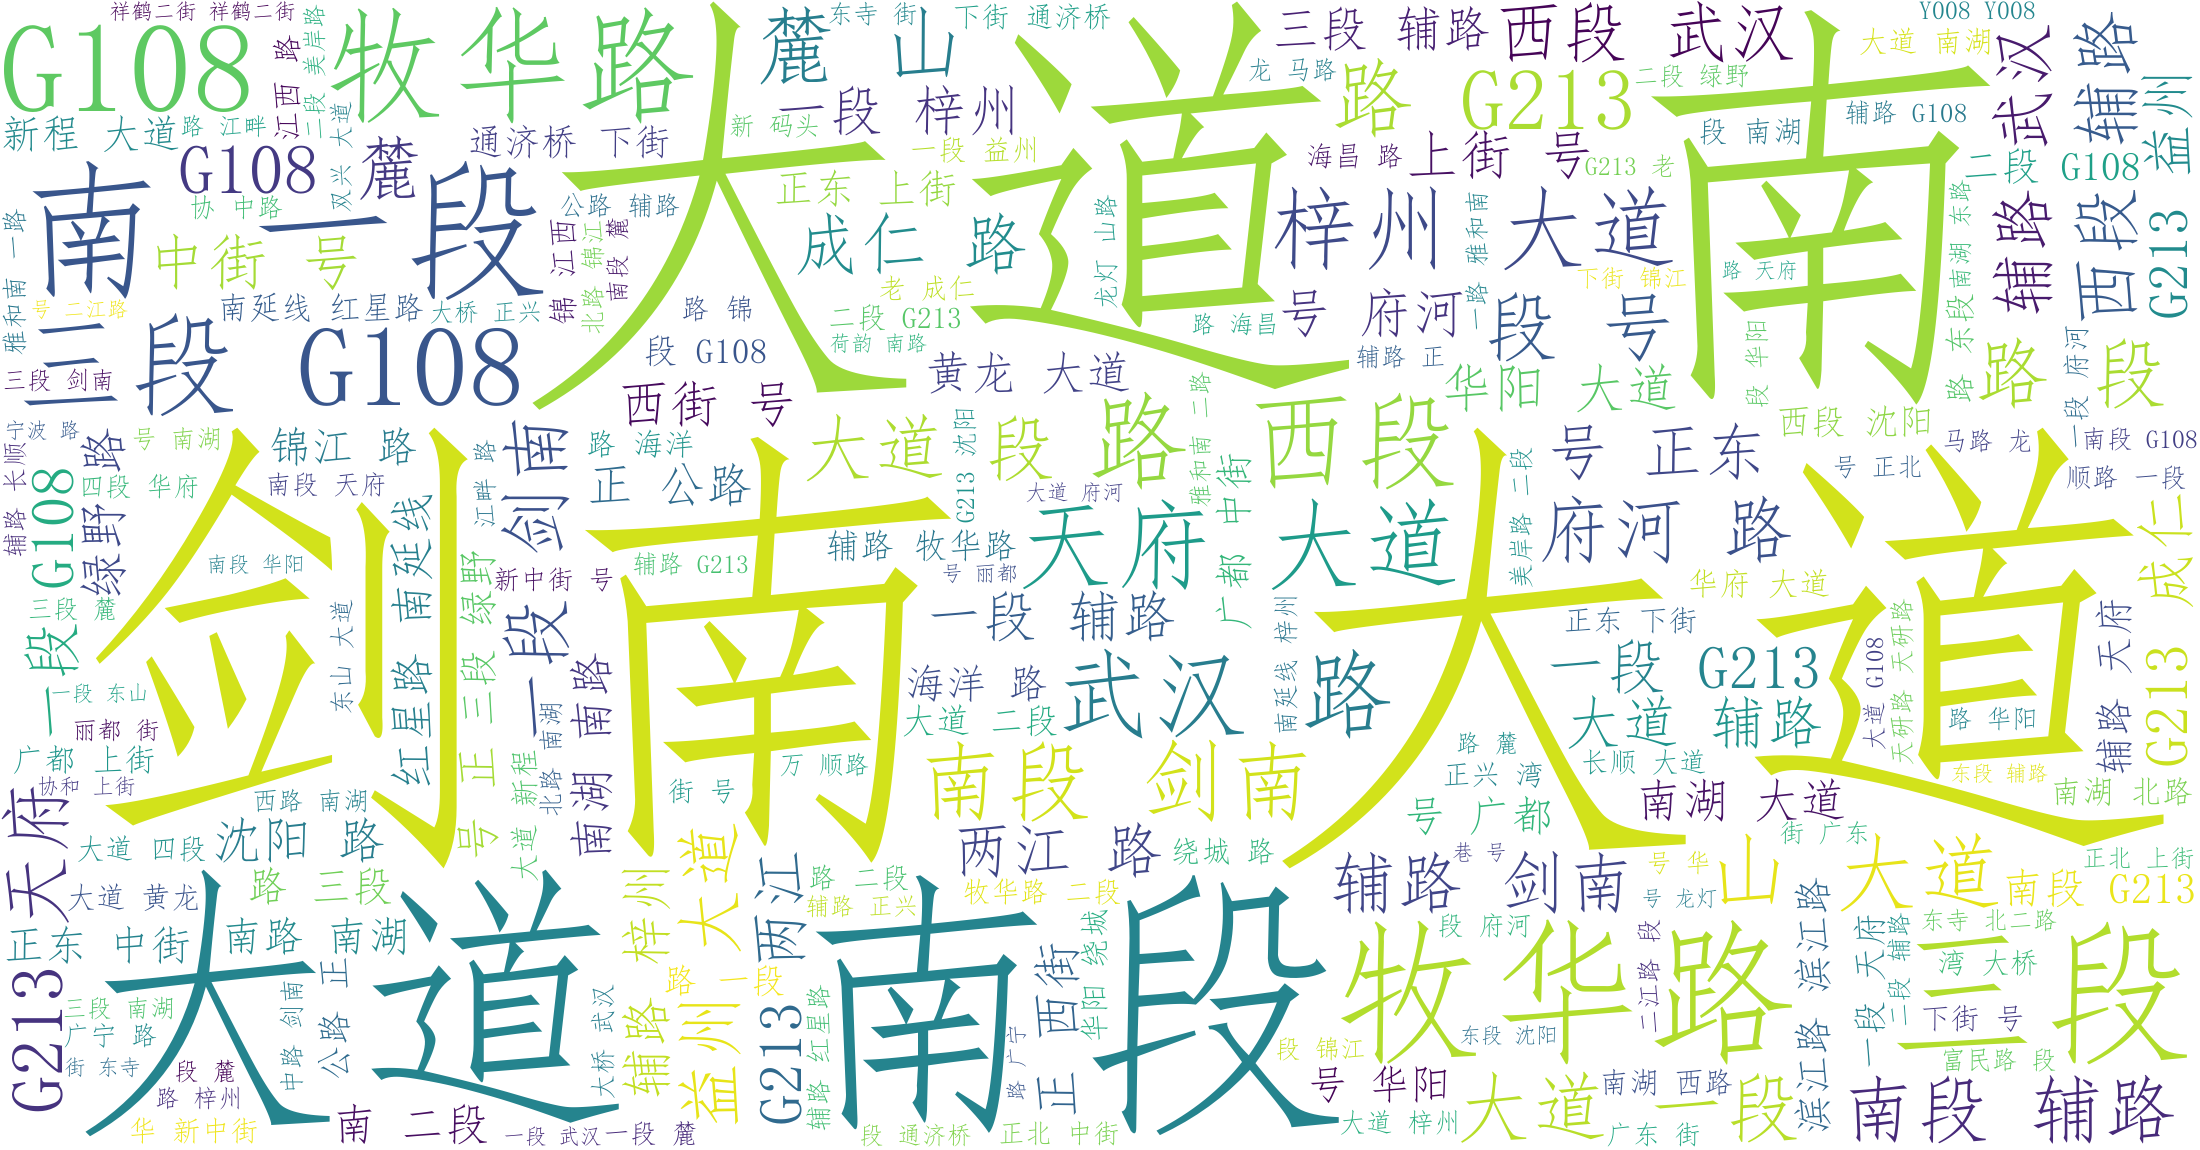
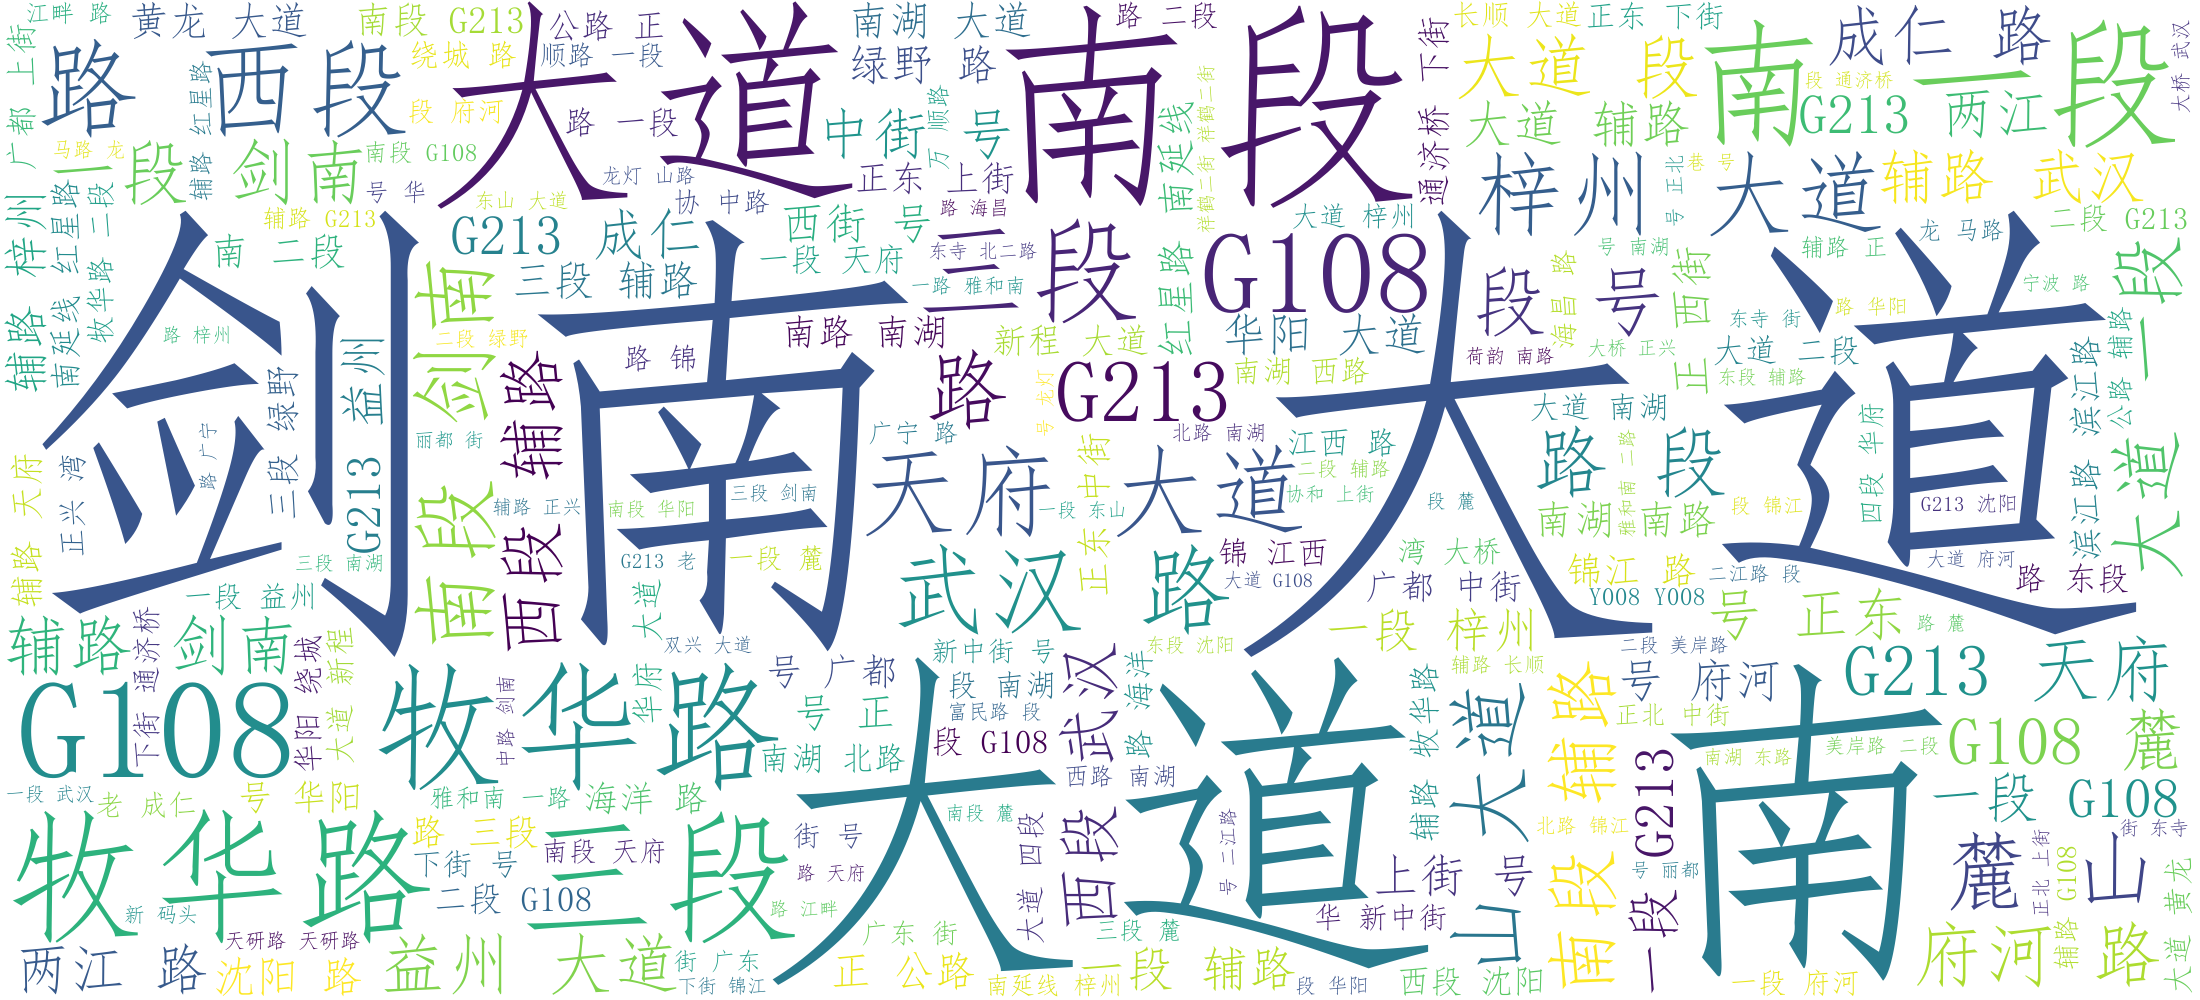
fhgfdf

diff --git a/GH/worddemo.py b/GH/worddemo.py
@@ -12,7 +12,7 @@ wordcloud = WordCloud(
     # 设置字体，不然会出现口字乱码，文字的路径是电脑的字体一般路径，可以换成别的
     font_path="C:/Windows/Fonts/simfang.ttf",
     # 设置了背景，宽高
-    background_color="white", width=2200, height=1150).generate(cut_text)
+    background_color="white", width=2200, height=1000).generate(cut_text)
 
 plt.imshow(wordcloud, interpolation="bilinear")
 wordcloud.to_file(r"wordcloud.png")
